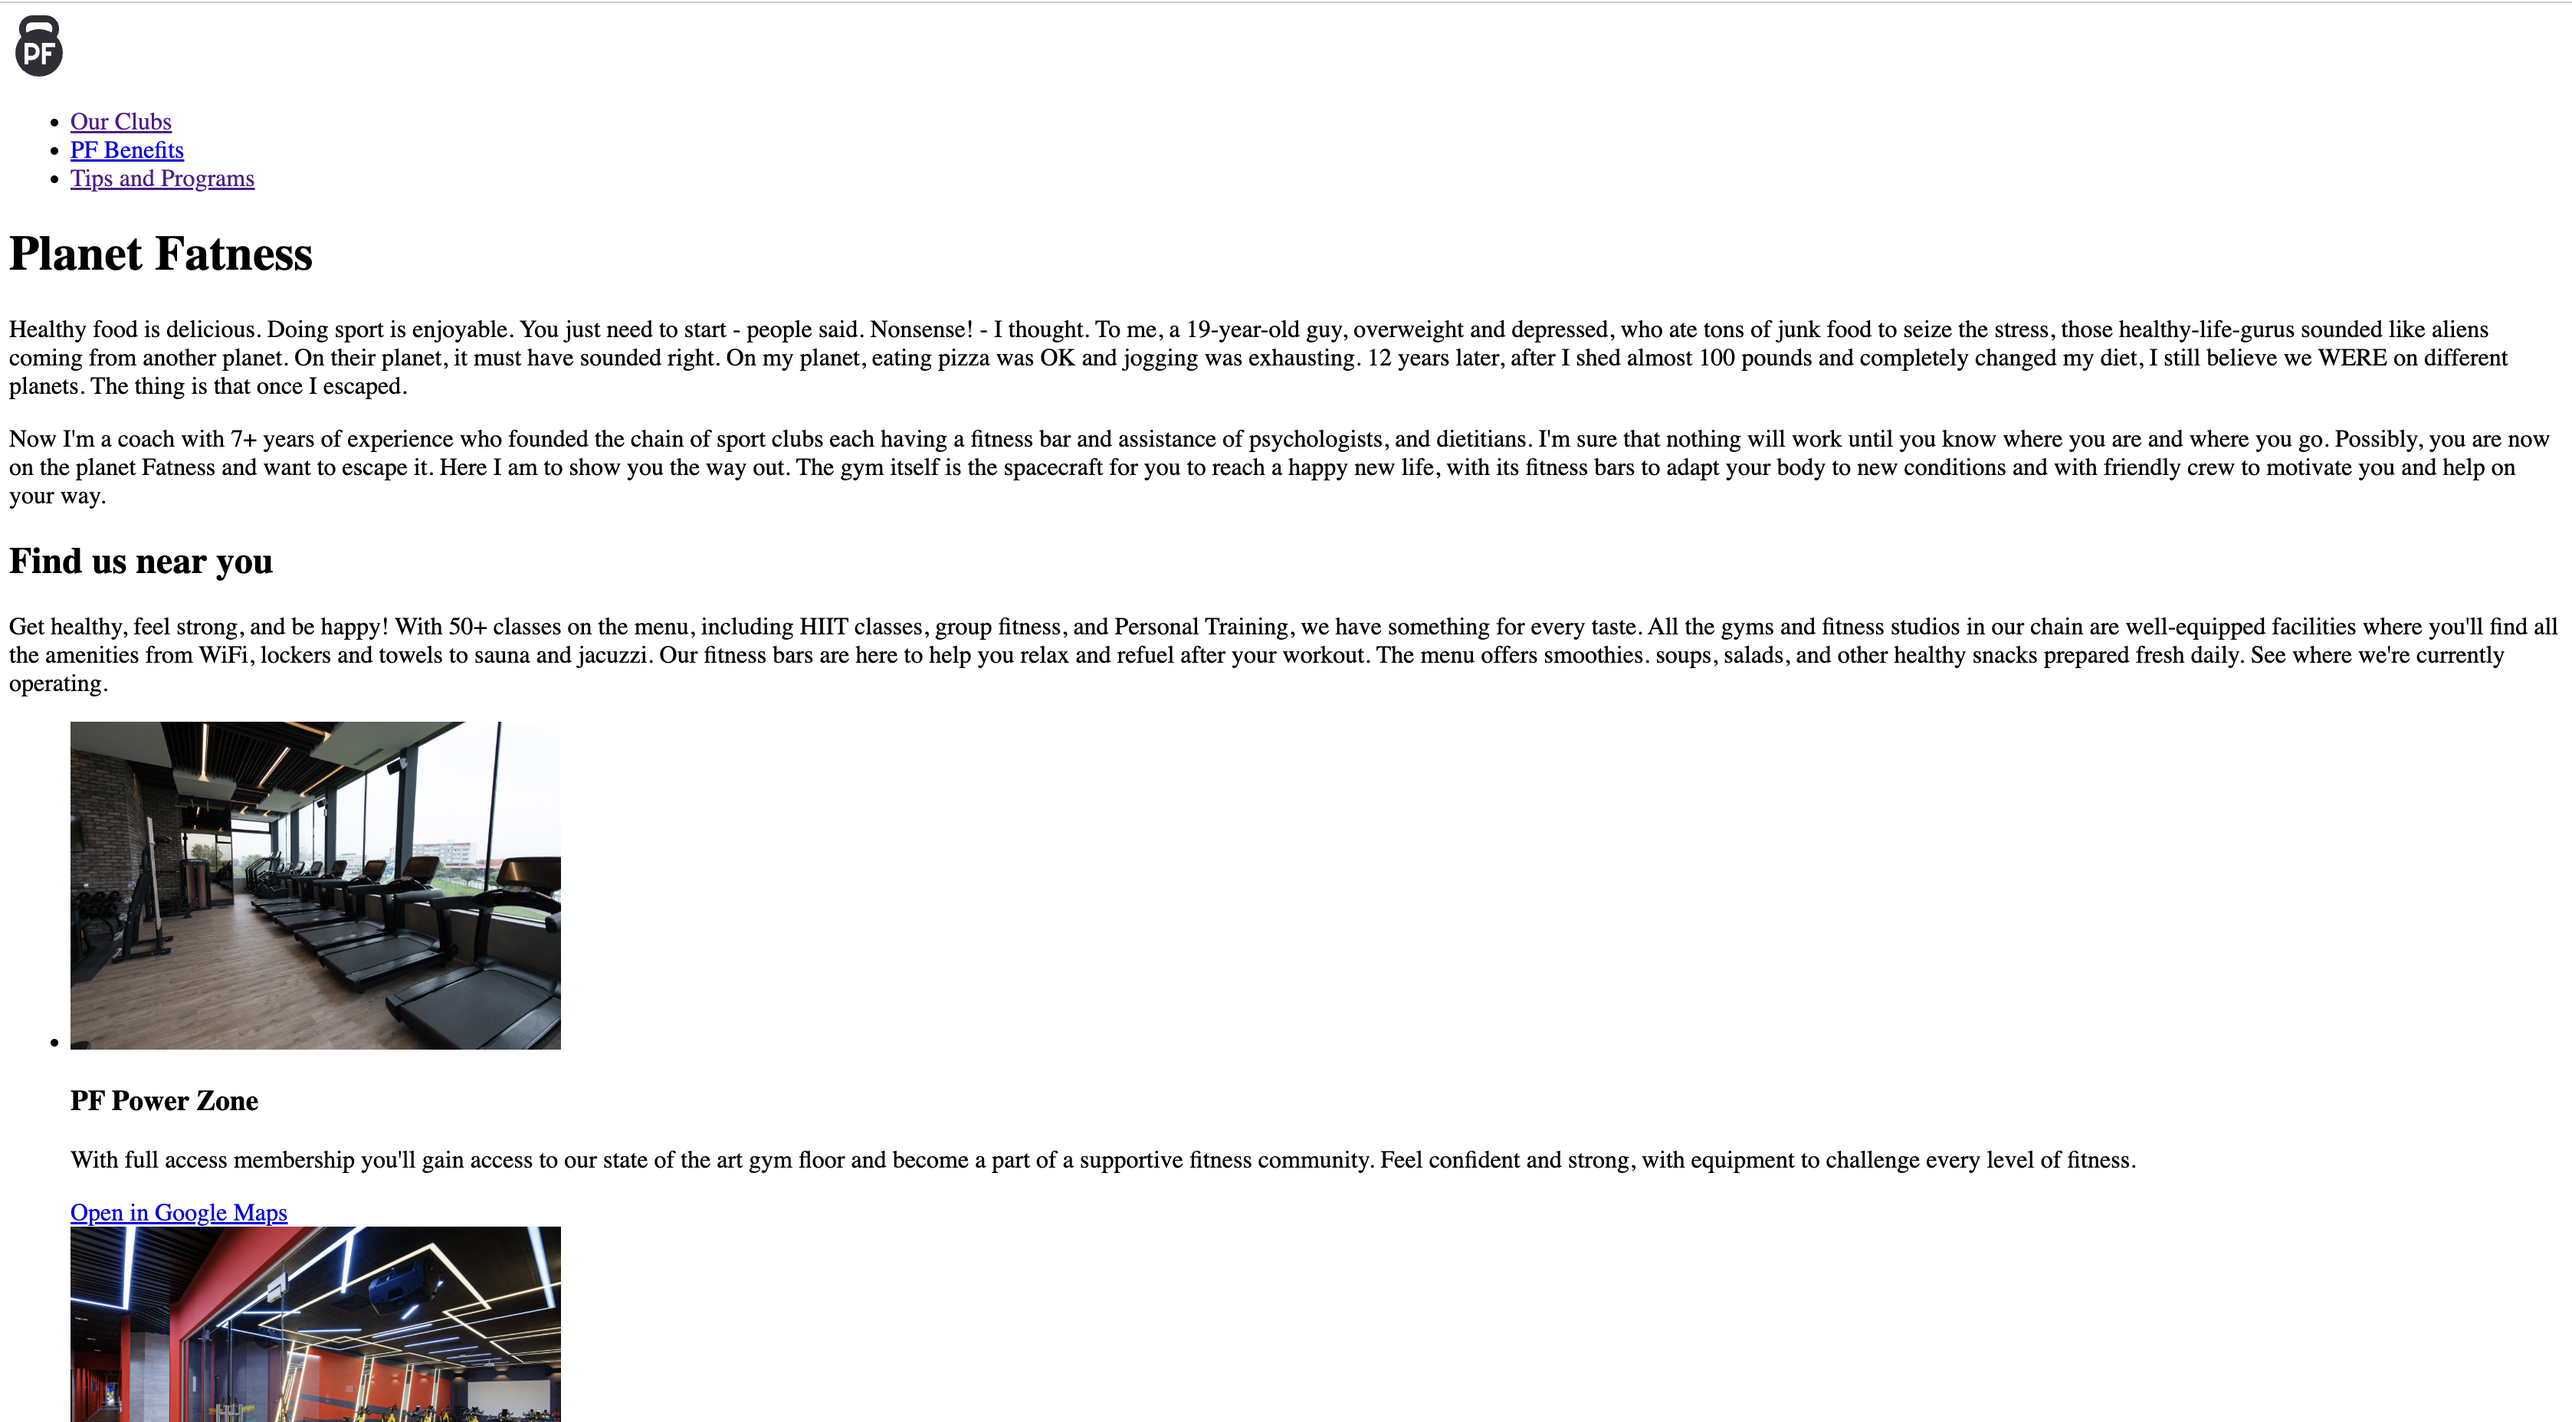
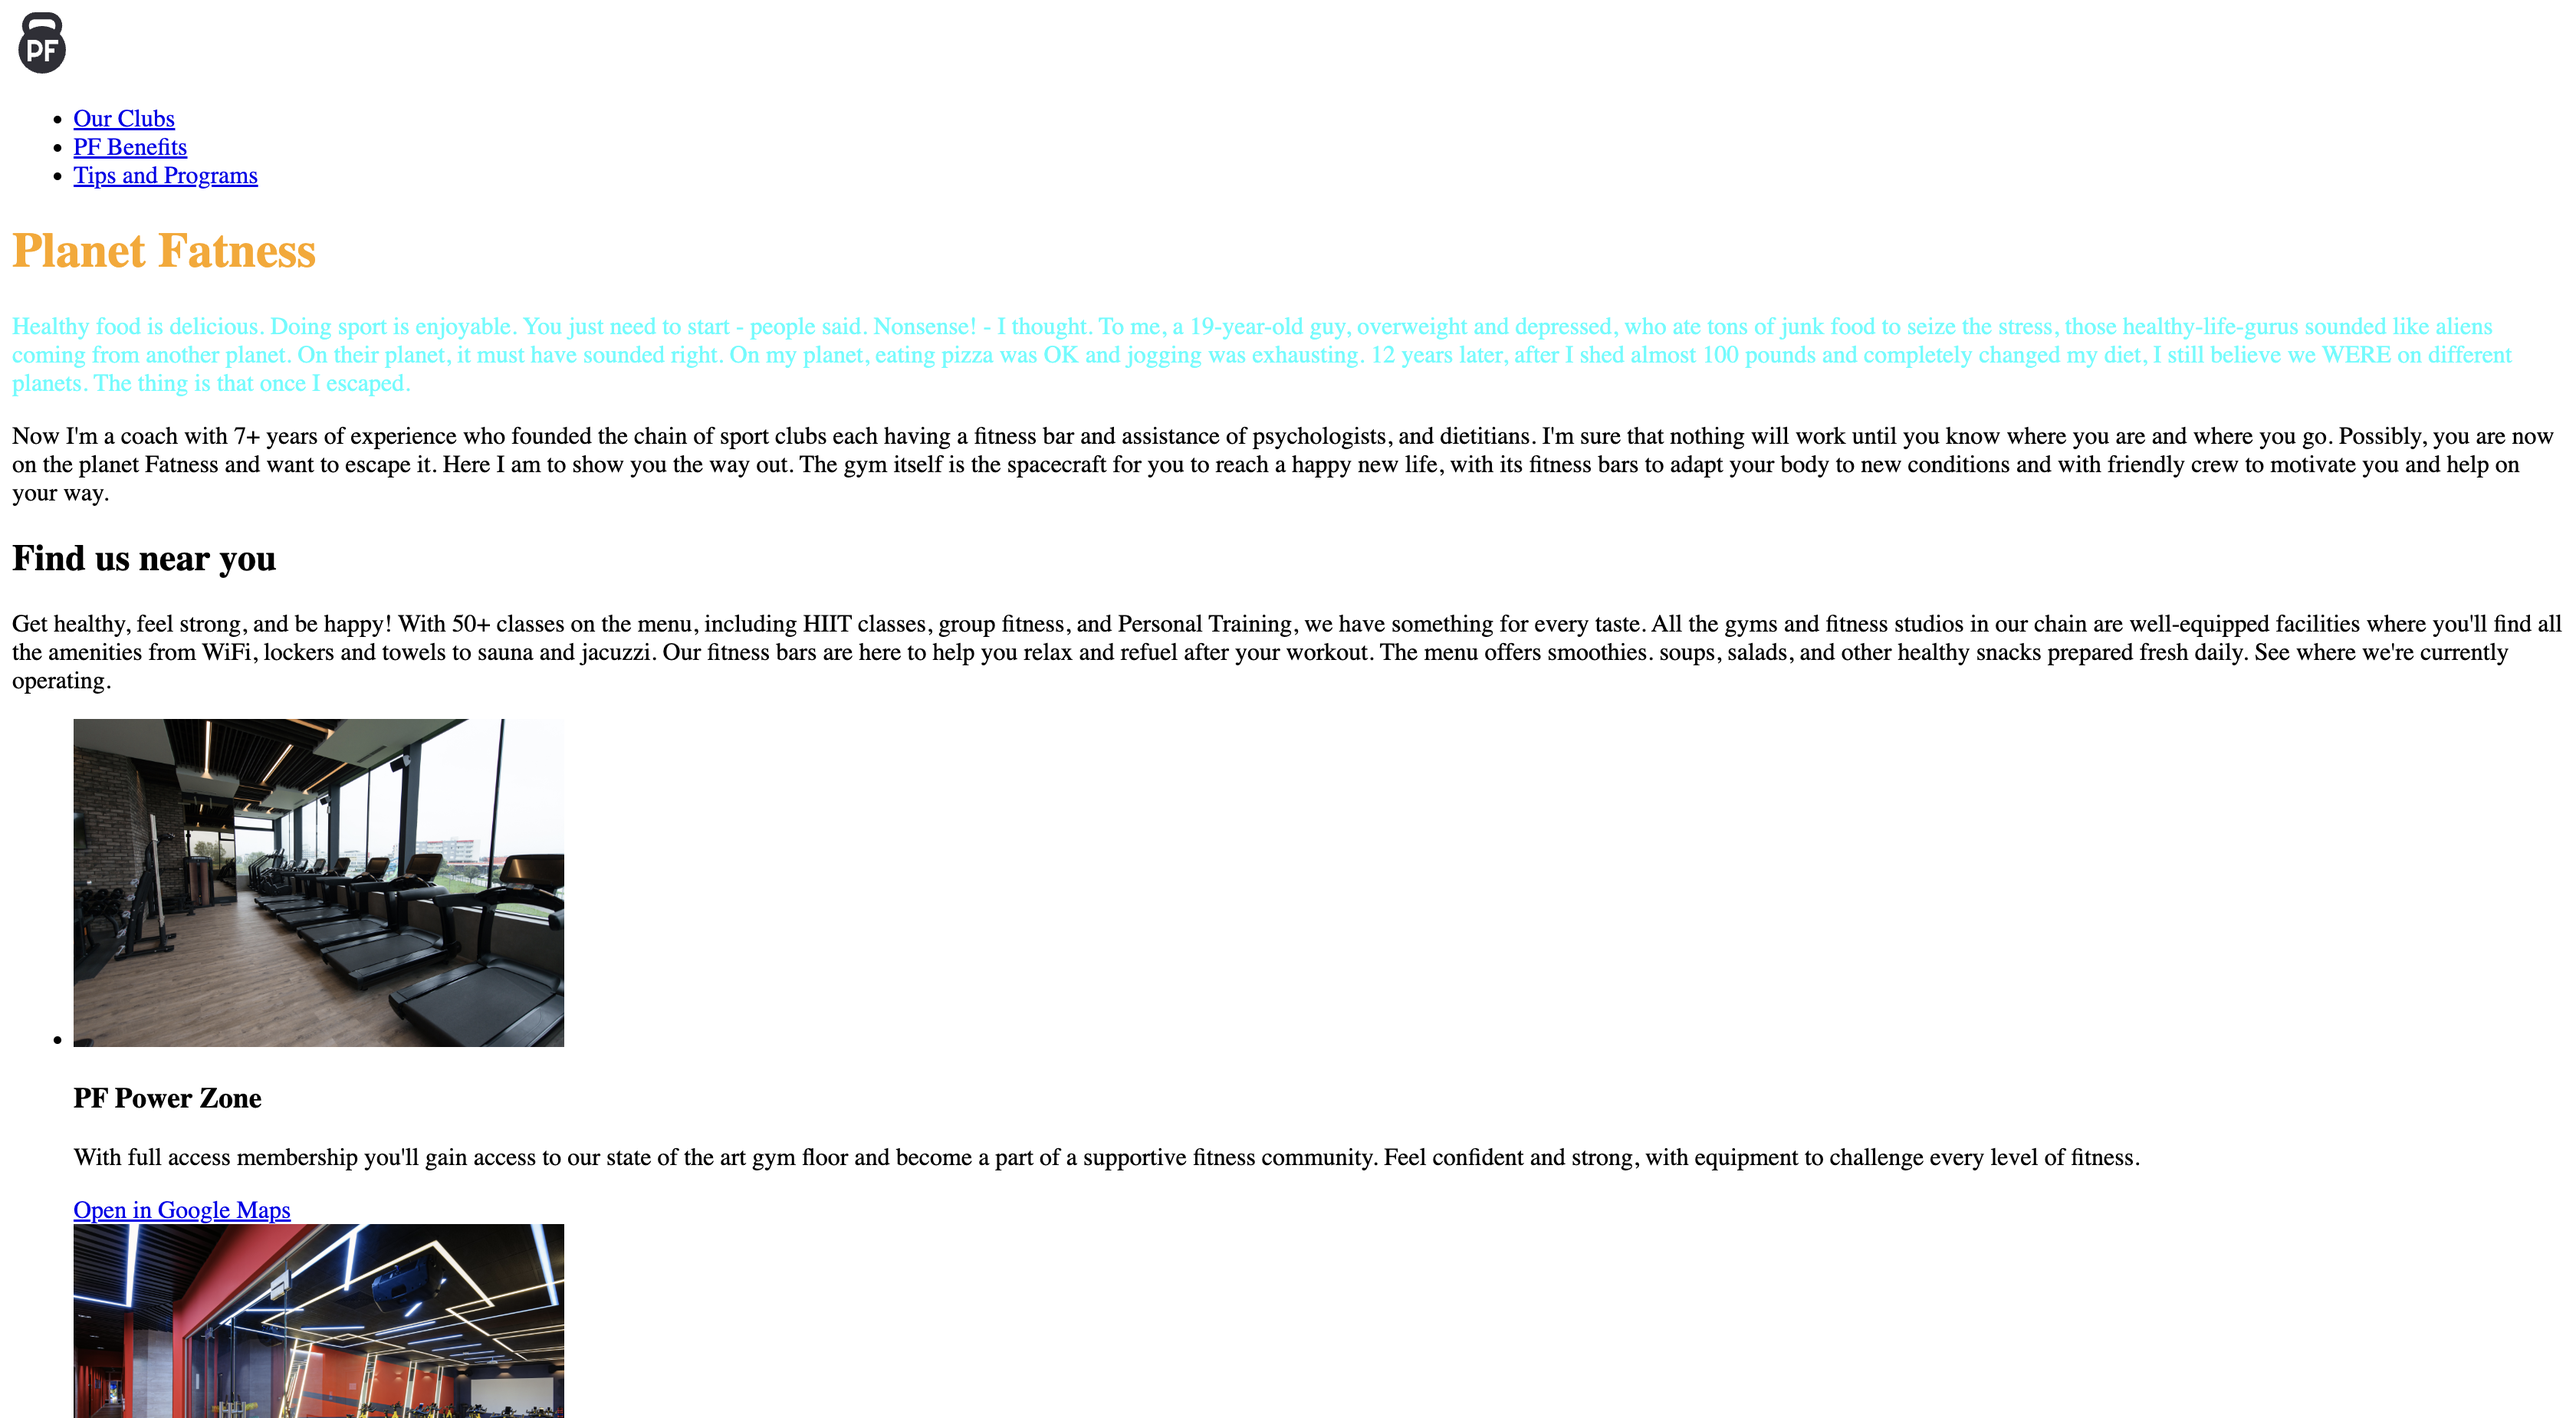
add inline css

diff --git a/index.html b/index.html
@@ -61,11 +61,11 @@
     </header>
     <main class="main">
       <!-- Українською: Основний вміст сторінки / English: Main page content -->
-      <h1 class="subtitle">
+      <h1 class="subtitle" style="color: orange">
         <!-- Українською: Заголовок 1 рівня / English: Heading level 1 -->
         Planet Fatness
       </h1>
-      <p class="paragraph">
+      <p class="paragraph" style="color: cyan">
         <!-- Українською: Абзац / English: Paragraph -->
         Healthy food is delicious. Doing sport is enjoyable. You just need to
         start - people said. Nonsense! - I thought. To me, a 19-year-old guy,

diff --git a/css/styles.css b/css/styles.css
@@ -1,0 +1,4 @@
+.p{
+    color: #015838
+
+}

diff --git a/README.md b/README.md
@@ -1,6 +1,6 @@
-# longread-1-module1-html-basics-practice-2
+# longread-2-module2-introduction-to-css-practice-1
 
-Page of the gym network!
+Page of the gym network with inline css!
 
 You need to follow the Page Page of the gyms.
 
